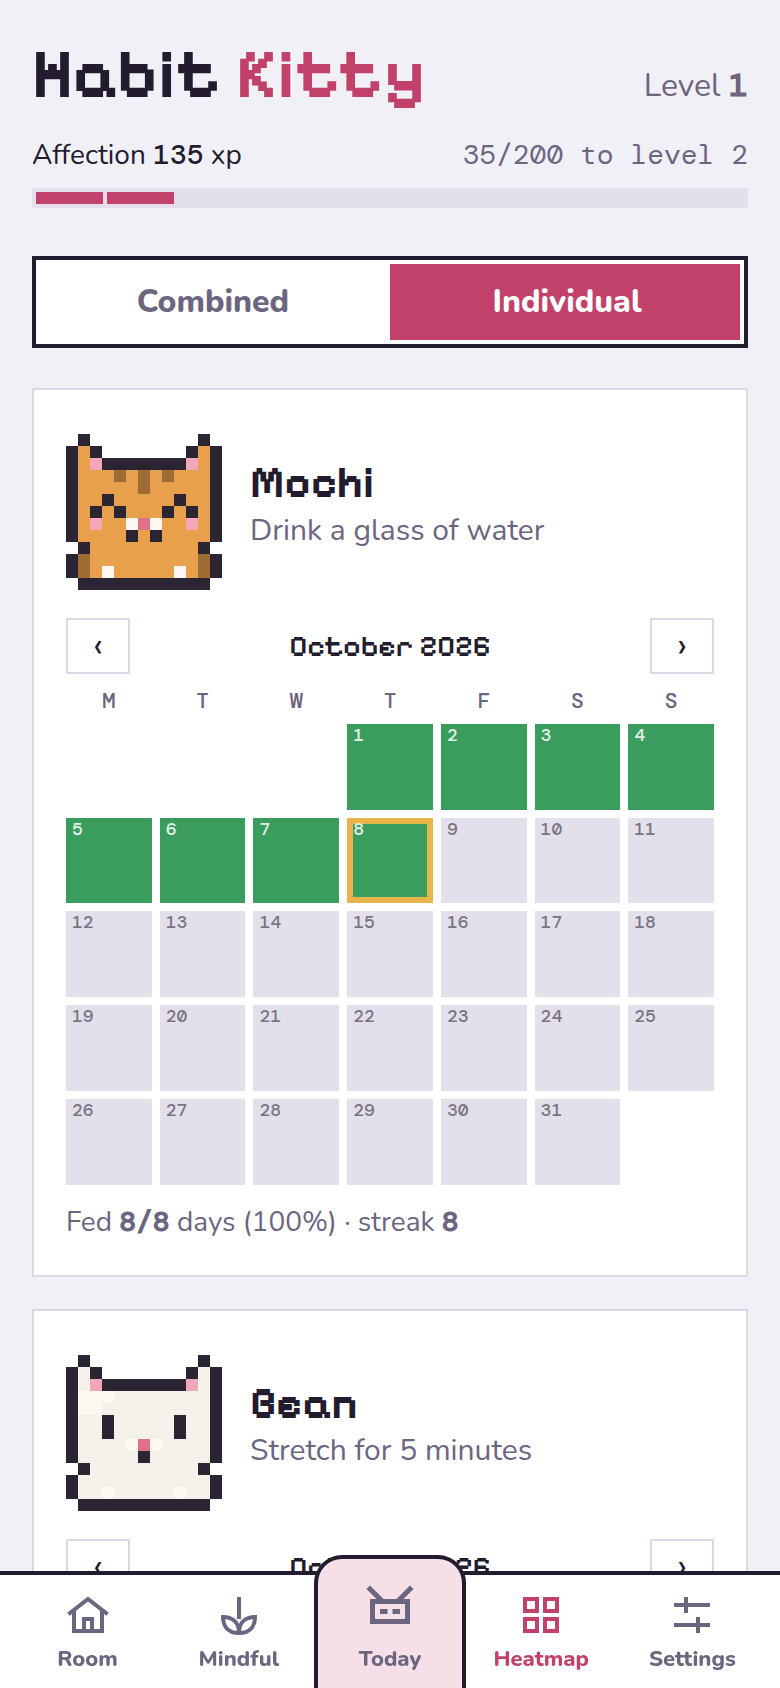
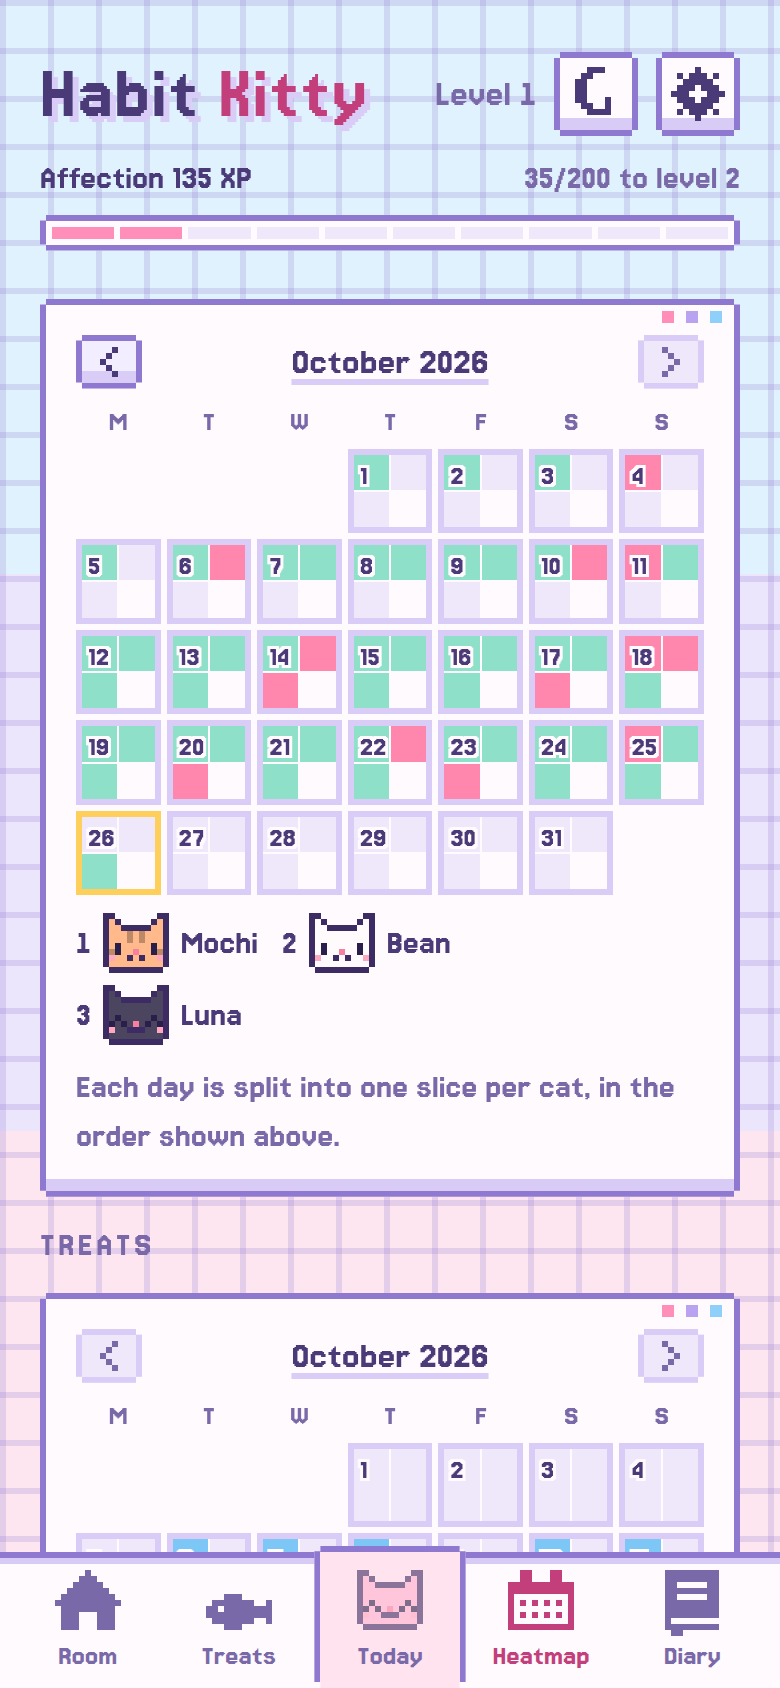
docs: update README and screenshots for the pastel pixel look

diff --git a/CHANGELOG.md b/CHANGELOG.md
@@ -2,7 +2,7 @@
 
 Newest first. The app bundles this file: it shows the latest entry once after an update, and the whole list under Settings → Change log.
 
-## 3.0.0 - 2026-10-19
+## 0.3.0 - 2026-10-19
 
 ### Changed
 - **A whole new look: a cozy pastel pixel world.** Pink, baby blue and lavender throughout, with a pixel grid behind everything. This is a cosmetic update: nothing about how the game plays has changed.
@@ -17,7 +17,7 @@ Newest first. The app bundles this file: it shows the latest entry once after an
 ## 0.2.1 - 2026-10-19
 
 ### New
-- **Time travel mode** (Settings → Game options). While it is on, every treat and kibble gets a ⏪ button to mark or unmark it as done on any day, past or present. It fixes your record only: no xp is paid or taken away.
+- **Time travel mode** (Settings → Game options). While it is on, every treat and kibble gets a ⏪ button to mark or unmark it as done on any day, past or present. It fixes your record only: no XP is paid or taken away.
 - **Achievements.** A trophy in the cozy room shows meals served, weeks of raising kitties, feeding streaks, treats done, levels and diary pages. New ones pop up when you earn them.
 - **Everyone's diary.** A book in the cozy room collects what all your kitties did, day by day.
 - **Gender.** Choose girl or boy when you adopt a kitty. Older kitties get one too.
